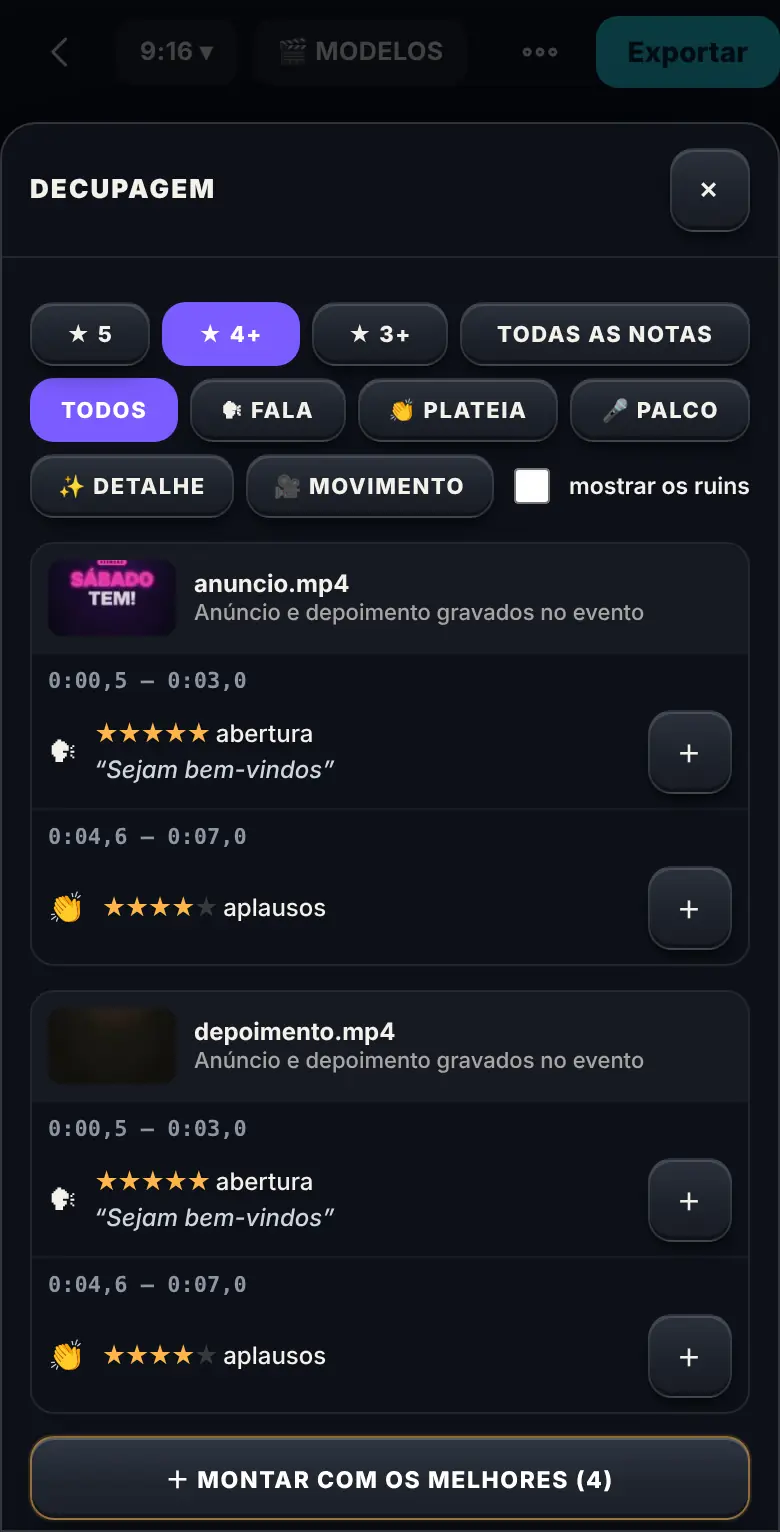
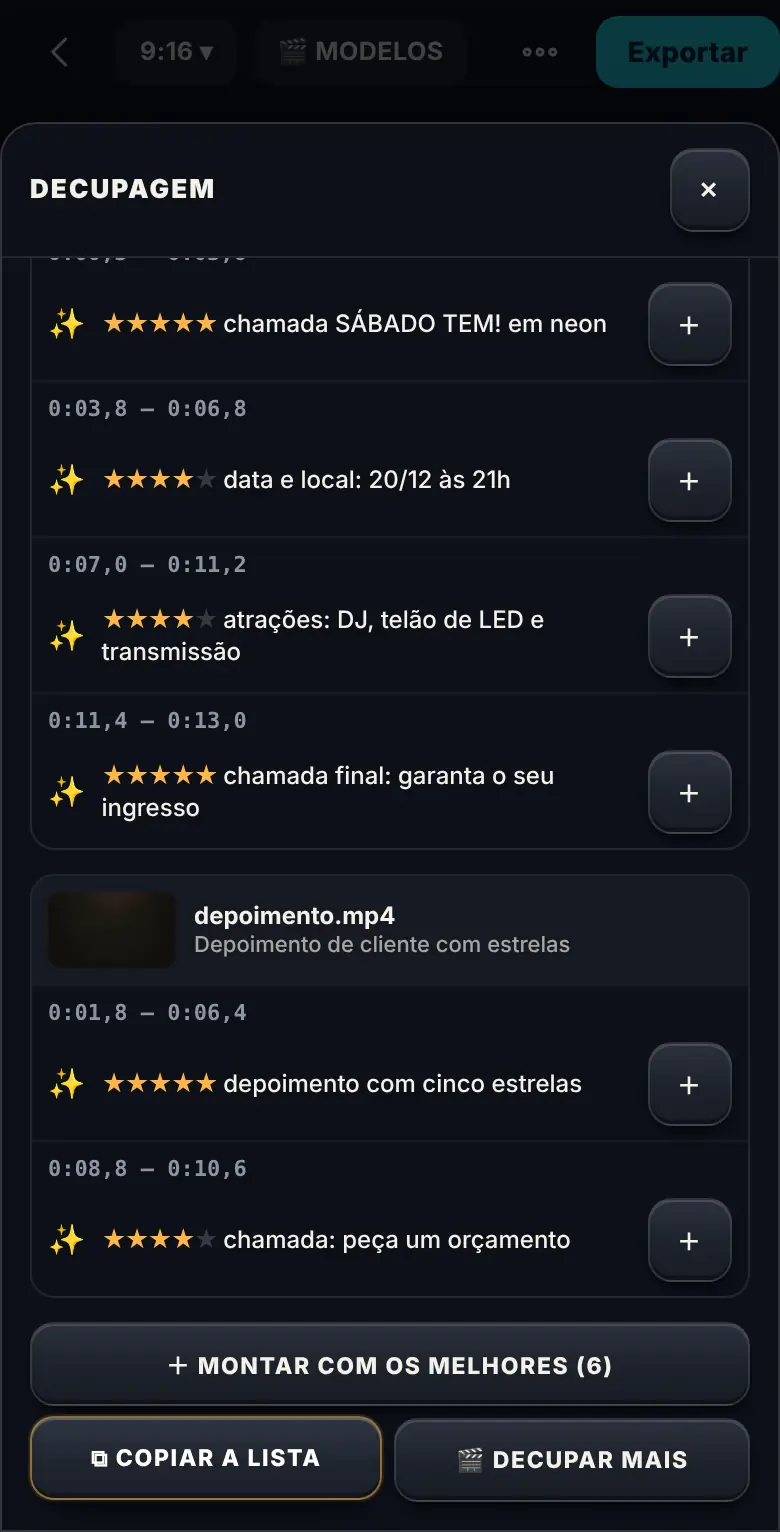
Tutoriais: exemplo mostra o resultado real (foto com IA, decupagem, assistente)
Claude-Session: https://claude.ai/code/session_01V74hghJf7XZyDoywCHQLat

diff --git a/assets/tutoriais/quadros.js b/assets/tutoriais/quadros.js
@@ -1,1 +1,1 @@
-window.BW_TUT_QUADROS = {"instalar-app":{"0":[{"img":"instalar-app-0-0.webp","acao":"toque","r":[342,742,23,16]},{"img":"instalar-app-0-1.webp","acao":"rolar"},{"img":"instalar-app-0-2.webp","acao":"toque","r":[163,377,89,12]},{"img":"instalar-app-0-3.webp","acao":"fim"}],"1":[{"img":"instalar-app-1-0.webp","acao":"rolar"},{"img":"instalar-app-1-1.webp","acao":"toque","r":[45,356,300,54]},{"img":"instalar-app-1-2.webp","acao":"fim"}]},"tela-inicial":{"0":[{"img":"tela-inicial-0-0.webp","acao":"toque","r":[63,228,118,102]},{"img":"tela-inicial-0-1.webp","acao":"fim"}],"1":[{"img":"tela-inicial-1-0.webp","acao":"digita","r":[25,562,340,80],"texto":"gastei 50 no almoço"},{"img":"tela-inicial-1-1.webp","acao":"fim"}],"2":[{"img":"tela-inicial-2-0.webp","acao":"toque","r":[342,742,23,16]},{"img":"tela-inicial-2-1.webp","acao":"rolar"},{"img":"tela-inicial-2-2.webp","acao":"toque","r":[149,377,118,12]},{"img":"tela-inicial-2-3.webp","acao":"fim"}]},"limites-ias":{"0":[{"img":"limites-ias-0-0.webp","acao":"toque","r":[342,742,23,16]},{"img":"limites-ias-0-1.webp","acao":"rolar"},{"img":"limites-ias-0-2.webp","acao":"toque","r":[149,377,118,12]},{"img":"limites-ias-0-3.webp","acao":"fim"}],"1":[{"img":"limites-ias-1-0.webp","acao":"rolar"},{"img":"limites-ias-1-1.webp","acao":"toque","r":[66,120,258,44]},{"img":"limites-ias-1-2.webp","acao":"fim"}],"2":[{"img":"limites-ias-2-0.webp","acao":"rolar"},{"img":"limites-ias-2-1.webp","acao":"toque","r":[66,356,258,54]},{"img":"limites-ias-2-2.webp","acao":"fim"}]},"conectar-cloudflare":{"0":[{"img":"conectar-cloudflare-0-0.webp","acao":"rolar"},{"img":"conectar-cloudflare-0-1.webp","acao":"toque","r":[66,361,258,44]},{"img":"conectar-cloudflare-0-2.webp","acao":"fim"}],"5":[{"img":"conectar-cloudflare-5-0.webp","acao":"rolar"},{"img":"conectar-cloudflare-5-1.webp","acao":"toque","r":[225,360,99,46]},{"img":"conectar-cloudflare-5-2.webp","acao":"fim"}]},"conectar-gemini":{"0":[{"img":"conectar-gemini-0-0.webp","acao":"rolar"},{"img":"conectar-gemini-0-1.webp","acao":"toque","r":[66,361,258,44]},{"img":"conectar-gemini-0-2.webp","acao":"fim"}],"4":[{"img":"conectar-gemini-4-0.webp","acao":"rolar"},{"img":"conectar-gemini-4-1.webp","acao":"toque","r":[225,360,99,46]},{"img":"conectar-gemini-4-2.webp","acao":"fim"}]},"decupar":{"0":[{"img":"decupar-0-0.webp","acao":"toque","r":[20,735,29,13]},{"img":"decupar-0-1.webp","acao":"toque","r":[14,347,149,42]},{"img":"decupar-0-2.webp","acao":"fim"}],"1":[{"img":"decupar-1-0.webp","acao":"toque","r":[187,600,189,42]},{"img":"decupar-1-1.webp","acao":"digita","r":[15,459,360,40],"texto":"convenção de vendas"},{"img":"decupar-1-2.webp","acao":"toque","r":[15,709,192,42]},{"img":"decupar-1-3.webp","acao":"fim"}],"2":[{"img":"decupar-2-0.webp","acao":"rolar"},{"img":"decupar-2-1.webp","acao":"fim"}],"3":[{"img":"decupar-3-0.webp","acao":"toque","r":[15,718,360,42]},{"img":"decupar-3-1.webp","acao":"fim"}]},"exportar-redes":{"0":[{"img":"exportar-redes-0-0.webp","acao":"toque","r":[14,600,167,42]},{"img":"exportar-redes-0-1.webp","acao":"fim"}],"1":[{"img":"exportar-redes-1-0.webp","acao":"rolar"},{"img":"exportar-redes-1-1.webp","acao":"toque","r":[324,728,76,25]},{"img":"exportar-redes-1-2.webp","acao":"fim"}],"2":[{"img":"exportar-redes-2-0.webp","acao":"toque","r":[298,8,92,36]},{"img":"exportar-redes-2-1.webp","acao":"toque","r":[199,396,176,86]},{"img":"exportar-redes-2-2.webp","acao":"rolar"},{"img":"exportar-redes-2-3.webp","acao":"toque","r":[15,709,144,42]},{"img":"exportar-redes-2-4.webp","acao":"fim"}]},"foto-ia":{"0":[{"img":"foto-ia-0-0.webp","acao":"toque","r":[45,144,300,254]},{"img":"foto-ia-0-1.webp","acao":"fim"}],"1":[{"img":"foto-ia-1-0.webp","acao":"rolar"},{"img":"foto-ia-1-1.webp","acao":"toque","r":[328,709,62,51]},{"img":"foto-ia-1-2.webp","acao":"fim"}],"2":[{"img":"foto-ia-2-0.webp","acao":"digita","r":[12,557,366,58],"texto":"cabelo cacheado ruivo"},{"img":"foto-ia-2-1.webp","acao":"rolar"},{"img":"foto-ia-2-2.webp","acao":"toque","r":[12,570,166,32]},{"img":"foto-ia-2-3.webp","acao":"fim"}]},"convite-animado":{"0":[{"img":"convite-animado-0-0.webp","acao":"toque","r":[51,512,139,86]},{"img":"convite-animado-0-1.webp","acao":"fim"}],"1":[{"img":"convite-animado-1-0.webp","acao":"rolar"},{"img":"convite-animado-1-1.webp","acao":"toque","r":[51,221,116,240]},{"img":"convite-animado-1-2.webp","acao":"fim"}],"2":[{"img":"convite-animado-2-0.webp","acao":"rolar"},{"img":"convite-animado-2-1.webp","acao":"toque","r":[51,323,108,36]},{"img":"convite-animado-2-2.webp","acao":"rolar"},{"img":"convite-animado-2-3.webp","acao":"toque","r":[51,297,66,87]},{"img":"convite-animado-2-4.webp","acao":"fim"}],"3":[{"img":"convite-animado-3-0.webp","acao":"rolar"},{"img":"convite-animado-3-1.webp","acao":"toque","r":[51,318,288,44]},{"img":"convite-animado-3-2.webp","acao":"fim"}]},"lancamento":{"0":[{"img":"lancamento-0-0.webp","acao":"toque","r":[32,566,159,84]},{"img":"lancamento-0-1.webp","acao":"fim"}],"1":[{"img":"lancamento-1-0.webp","acao":"toque","r":[32,413,189,44]},{"img":"lancamento-1-1.webp","acao":"toque","r":[18,92,174,80]},{"img":"lancamento-1-2.webp","acao":"toque","r":[18,303,174,80]},{"img":"lancamento-1-3.webp","acao":"fim"}],"2":[{"img":"lancamento-2-0.webp","acao":"digita","r":[18,442,356,46],"texto":"150,00"},{"img":"lancamento-2-1.webp","acao":"digita","r":[18,588,356,46],"texto":"Almoço da equipe"},{"img":"lancamento-2-2.webp","acao":"rolar"},{"img":"lancamento-2-3.webp","acao":"toque","r":[18,697,120,44]},{"img":"lancamento-2-4.webp","acao":"rolar"},{"img":"lancamento-2-5.webp","acao":"fim"}],"3":[{"img":"lancamento-3-0.webp","acao":"rolar"},{"img":"lancamento-3-1.webp","acao":"toque","r":[242,365,88,36]},{"img":"lancamento-3-2.webp","acao":"fim"}]},"ler-conta":{"0":[{"img":"ler-conta-0-0.webp","acao":"rolar"},{"img":"ler-conta-0-1.webp","acao":"toque","r":[55,218,135,168]},{"img":"ler-conta-0-2.webp","acao":"rolar"},{"img":"ler-conta-0-3.webp","acao":"toque","r":[115,369,161,42]},{"img":"ler-conta-0-4.webp","acao":"digita","r":[75,489,240,64],"texto":"83670000001-8 89900138000-0 62026121012-9 34567890123-1"},{"img":"ler-conta-0-5.webp","acao":"toque","r":[75,569,128,42]},{"img":"ler-conta-0-6.webp","acao":"fim"}],"1":[{"img":"ler-conta-1-0.webp","acao":"rolar"},{"img":"ler-conta-1-1.webp","acao":"fim"}],"2":[{"img":"ler-conta-2-0.webp","acao":"rolar"},{"img":"ler-conta-2-1.webp","acao":"toque","r":[55,449,242,42]},{"img":"ler-conta-2-2.webp","acao":"fim"}]},"meu-assistente":{"0":[{"img":"meu-assistente-0-0.webp","acao":"toque","r":[342,742,23,16]},{"img":"meu-assistente-0-1.webp","acao":"rolar"},{"img":"meu-assistente-0-2.webp","acao":"toque","r":[149,377,118,12]},{"img":"meu-assistente-0-3.webp","acao":"rolar"},{"img":"meu-assistente-0-4.webp","acao":"toque"},{"img":"meu-assistente-0-5.webp","acao":"fim"}],"1":[{"img":"meu-assistente-1-0.webp","acao":"digita","r":[51,502,288,48],"texto":"Zé"},{"img":"meu-assistente-1-1.webp","acao":"fim"}],"2":[{"img":"meu-assistente-2-0.webp","acao":"rolar"},{"img":"meu-assistente-2-1.webp","acao":"toque","r":[51,324,139,116]},{"img":"meu-assistente-2-2.webp","acao":"toque","r":[101,504,40,40]},{"img":"meu-assistente-2-3.webp","acao":"fim"}],"3":[{"img":"meu-assistente-3-0.webp","acao":"rolar"},{"img":"meu-assistente-3-1.webp","acao":"toque","r":[183,387,109,40]},{"img":"meu-assistente-3-2.webp","acao":"toque","r":[51,618,148,46]},{"img":"meu-assistente-3-3.webp","acao":"fim"}]}};
+window.BW_TUT_QUADROS = {"instalar-app":{"0":[{"img":"instalar-app-0-0.webp","acao":"toque","r":[342,742,23,16]},{"img":"instalar-app-0-1.webp","acao":"rolar"},{"img":"instalar-app-0-2.webp","acao":"toque","r":[163,377,89,12]},{"img":"instalar-app-0-3.webp","acao":"fim"}],"1":[{"img":"instalar-app-1-0.webp","acao":"rolar"},{"img":"instalar-app-1-1.webp","acao":"toque","r":[45,356,300,54]},{"img":"instalar-app-1-2.webp","acao":"fim"}]},"tela-inicial":{"0":[{"img":"tela-inicial-0-0.webp","acao":"toque","r":[63,229,118,102]},{"img":"tela-inicial-0-1.webp","acao":"fim"}],"1":[{"img":"tela-inicial-1-0.webp","acao":"digita","r":[25,562,340,80],"texto":"gastei 50 no almoço"},{"img":"tela-inicial-1-1.webp","acao":"toque","r":[327,600,38,38]},{"img":"tela-inicial-1-2.webp","acao":"fim"}],"2":[{"img":"tela-inicial-2-0.webp","acao":"toque","r":[342,742,23,16]},{"img":"tela-inicial-2-1.webp","acao":"rolar"},{"img":"tela-inicial-2-2.webp","acao":"toque","r":[149,377,118,12]},{"img":"tela-inicial-2-3.webp","acao":"fim"}]},"limites-ias":{"0":[{"img":"limites-ias-0-0.webp","acao":"toque","r":[342,742,23,16]},{"img":"limites-ias-0-1.webp","acao":"rolar"},{"img":"limites-ias-0-2.webp","acao":"toque","r":[149,377,118,12]},{"img":"limites-ias-0-3.webp","acao":"fim"}],"1":[{"img":"limites-ias-1-0.webp","acao":"rolar"},{"img":"limites-ias-1-1.webp","acao":"toque","r":[66,120,258,44]},{"img":"limites-ias-1-2.webp","acao":"fim"}],"2":[{"img":"limites-ias-2-0.webp","acao":"rolar"},{"img":"limites-ias-2-1.webp","acao":"toque","r":[66,356,258,54]},{"img":"limites-ias-2-2.webp","acao":"fim"}]},"conectar-cloudflare":{"0":[{"img":"conectar-cloudflare-0-0.webp","acao":"rolar"},{"img":"conectar-cloudflare-0-1.webp","acao":"toque","r":[66,361,258,44]},{"img":"conectar-cloudflare-0-2.webp","acao":"fim"}],"5":[{"img":"conectar-cloudflare-5-0.webp","acao":"rolar"},{"img":"conectar-cloudflare-5-1.webp","acao":"toque","r":[225,360,99,46]},{"img":"conectar-cloudflare-5-2.webp","acao":"fim"}]},"conectar-gemini":{"0":[{"img":"conectar-gemini-0-0.webp","acao":"rolar"},{"img":"conectar-gemini-0-1.webp","acao":"toque","r":[66,361,258,44]},{"img":"conectar-gemini-0-2.webp","acao":"fim"}],"4":[{"img":"conectar-gemini-4-0.webp","acao":"rolar"},{"img":"conectar-gemini-4-1.webp","acao":"toque","r":[225,360,99,46]},{"img":"conectar-gemini-4-2.webp","acao":"fim"}]},"decupar":{"0":[{"img":"decupar-0-0.webp","acao":"toque","r":[20,735,29,13]},{"img":"decupar-0-1.webp","acao":"toque","r":[14,347,149,42]},{"img":"decupar-0-2.webp","acao":"fim"}],"1":[{"img":"decupar-1-0.webp","acao":"toque","r":[187,600,189,42]},{"img":"decupar-1-1.webp","acao":"digita","r":[15,459,360,40],"texto":"convenção de vendas"},{"img":"decupar-1-2.webp","acao":"toque","r":[15,709,192,42]},{"img":"decupar-1-3.webp","acao":"fim"}],"2":[{"img":"decupar-2-0.webp","acao":"rolar"},{"img":"decupar-2-1.webp","acao":"fim"}],"3":[{"img":"decupar-3-0.webp","acao":"toque","r":[15,661,360,42]},{"img":"decupar-3-1.webp","acao":"fim"}]},"exportar-redes":{"0":[{"img":"exportar-redes-0-0.webp","acao":"toque","r":[14,600,167,42]},{"img":"exportar-redes-0-1.webp","acao":"fim"}],"1":[{"img":"exportar-redes-1-0.webp","acao":"rolar"},{"img":"exportar-redes-1-1.webp","acao":"toque","r":[324,728,76,25]},{"img":"exportar-redes-1-2.webp","acao":"fim"}],"2":[{"img":"exportar-redes-2-0.webp","acao":"toque","r":[298,8,92,36]},{"img":"exportar-redes-2-1.webp","acao":"toque","r":[199,396,176,86]},{"img":"exportar-redes-2-2.webp","acao":"rolar"},{"img":"exportar-redes-2-3.webp","acao":"toque","r":[15,709,144,42]},{"img":"exportar-redes-2-4.webp","acao":"fim"}]},"foto-ia":{"0":[{"img":"foto-ia-0-0.webp","acao":"toque","r":[45,144,300,254]},{"img":"foto-ia-0-1.webp","acao":"fim"}],"1":[{"img":"foto-ia-1-0.webp","acao":"rolar"},{"img":"foto-ia-1-1.webp","acao":"toque","r":[328,709,62,51]},{"img":"foto-ia-1-2.webp","acao":"fim"}],"2":[{"img":"foto-ia-2-0.webp","acao":"digita","r":[12,557,366,58],"texto":"cabelo cacheado ruivo"},{"img":"foto-ia-2-1.webp","acao":"rolar"},{"img":"foto-ia-2-2.webp","acao":"toque","r":[12,570,166,32]},{"img":"foto-ia-2-3.webp","acao":"fim"}],"3":[{"img":"foto-ia-3-0.webp","acao":"toque","r":[10,421,46,46]},{"img":"foto-ia-3-1.webp","acao":"toque","r":[62,421,46,46]},{"img":"foto-ia-3-2.webp","acao":"toque","r":[292,60,88,40]},{"img":"foto-ia-3-3.webp","acao":"fim"}]},"convite-animado":{"0":[{"img":"convite-animado-0-0.webp","acao":"toque","r":[51,512,139,86]},{"img":"convite-animado-0-1.webp","acao":"fim"}],"1":[{"img":"convite-animado-1-0.webp","acao":"rolar"},{"img":"convite-animado-1-1.webp","acao":"toque","r":[51,221,116,240]},{"img":"convite-animado-1-2.webp","acao":"fim"}],"2":[{"img":"convite-animado-2-0.webp","acao":"rolar"},{"img":"convite-animado-2-1.webp","acao":"toque","r":[51,323,108,36]},{"img":"convite-animado-2-2.webp","acao":"rolar"},{"img":"convite-animado-2-3.webp","acao":"toque","r":[51,297,66,87]},{"img":"convite-animado-2-4.webp","acao":"fim"}],"3":[{"img":"convite-animado-3-0.webp","acao":"rolar"},{"img":"convite-animado-3-1.webp","acao":"toque","r":[51,318,288,44]},{"img":"convite-animado-3-2.webp","acao":"fim"}]},"lancamento":{"0":[{"img":"lancamento-0-0.webp","acao":"toque","r":[32,566,159,84]},{"img":"lancamento-0-1.webp","acao":"fim"}],"1":[{"img":"lancamento-1-0.webp","acao":"toque","r":[32,413,189,44]},{"img":"lancamento-1-1.webp","acao":"toque","r":[18,92,174,80]},{"img":"lancamento-1-2.webp","acao":"toque","r":[18,303,174,80]},{"img":"lancamento-1-3.webp","acao":"fim"}],"2":[{"img":"lancamento-2-0.webp","acao":"digita","r":[18,442,356,46],"texto":"150,00"},{"img":"lancamento-2-1.webp","acao":"digita","r":[18,588,356,46],"texto":"Almoço da equipe"},{"img":"lancamento-2-2.webp","acao":"rolar"},{"img":"lancamento-2-3.webp","acao":"toque","r":[18,697,120,44]},{"img":"lancamento-2-4.webp","acao":"rolar"},{"img":"lancamento-2-5.webp","acao":"fim"}],"3":[{"img":"lancamento-3-0.webp","acao":"rolar"},{"img":"lancamento-3-1.webp","acao":"toque","r":[242,365,88,36]},{"img":"lancamento-3-2.webp","acao":"fim"}]},"ler-conta":{"0":[{"img":"ler-conta-0-0.webp","acao":"rolar"},{"img":"ler-conta-0-1.webp","acao":"toque","r":[55,218,135,168]},{"img":"ler-conta-0-2.webp","acao":"rolar"},{"img":"ler-conta-0-3.webp","acao":"toque","r":[115,369,161,42]},{"img":"ler-conta-0-4.webp","acao":"digita","r":[75,489,240,64],"texto":"83670000001-8 89900138000-0 62026121012-9 34567890123-1"},{"img":"ler-conta-0-5.webp","acao":"toque","r":[75,569,128,42]},{"img":"ler-conta-0-6.webp","acao":"fim"}],"1":[{"img":"ler-conta-1-0.webp","acao":"rolar"},{"img":"ler-conta-1-1.webp","acao":"fim"}],"2":[{"img":"ler-conta-2-0.webp","acao":"rolar"},{"img":"ler-conta-2-1.webp","acao":"toque","r":[55,449,242,42]},{"img":"ler-conta-2-2.webp","acao":"fim"}]},"meu-assistente":{"0":[{"img":"meu-assistente-0-0.webp","acao":"toque","r":[342,742,23,16]},{"img":"meu-assistente-0-1.webp","acao":"rolar"},{"img":"meu-assistente-0-2.webp","acao":"toque","r":[149,377,118,12]},{"img":"meu-assistente-0-3.webp","acao":"rolar"},{"img":"meu-assistente-0-4.webp","acao":"toque"},{"img":"meu-assistente-0-5.webp","acao":"fim"}],"1":[{"img":"meu-assistente-1-0.webp","acao":"digita","r":[51,502,288,48],"texto":"Zé"},{"img":"meu-assistente-1-1.webp","acao":"fim"}],"2":[{"img":"meu-assistente-2-0.webp","acao":"rolar"},{"img":"meu-assistente-2-1.webp","acao":"toque","r":[51,324,139,116]},{"img":"meu-assistente-2-2.webp","acao":"toque","r":[101,504,40,40]},{"img":"meu-assistente-2-3.webp","acao":"fim"}],"3":[{"img":"meu-assistente-3-0.webp","acao":"rolar"},{"img":"meu-assistente-3-1.webp","acao":"toque","r":[183,387,109,40]},{"img":"meu-assistente-3-2.webp","acao":"toque","r":[51,618,148,46]},{"img":"meu-assistente-3-3.webp","acao":"fim"}]}};

diff --git a/assets/tutoriais.js b/assets/tutoriais.js
@@ -39,7 +39,7 @@
       link: ["./", "IR PARA O INÍCIO"],
       passos: [
         { t: "Toque numa tela para entrar", d: "Em volta do robô ficam MEU NEGÓCIO, GESTÃO DE CASA, MARKETING e FERRAMENTAS. Passe o dedo para o lado para girar e toque numa delas para entrar." },
-        { t: "Peça pela caixa do assistente", d: "Embaixo do robô fica a caixa de pedido: escreva ou fale e toque na seta. O assistente mostra o cartão antes de lançar qualquer coisa." },
+        { t: "Peça pela caixa do assistente", d: "Embaixo do robô fica a caixa de pedido: escreva ou fale e toque na seta. No exemplo, gastei 50 no almoço vira um cartão de gasto da casa, com o valor e a data: o assistente sempre mostra o cartão e só lança quando você toca em LANÇAR." },
         { t: "Menu e configurações", d: "Toque em MAIS, arraste o menu e entre em CONFIGURAÇÕES: os seus dados, a aparência e as suas IAs." }
       ] },
     { id: "meu-assistente", cat: "comecar", ic: "🧑💻", titulo: "Deixar o assistente do seu jeito", ensina: "deixar o assistente do seu jeito", min: 2, nivel: "Fácil",
@@ -111,7 +111,7 @@
       passos: [
         { t: "Importe os takes", d: "No Editor de vídeo, toque em Mídia, na faixa de baixo, e depois em IMPORTAR. Escolha os vídeos do evento." },
         { t: "Toque em DECUPAR COM IA", d: "Na mesma folha, toque em DECUPAR COM IA. Os takes já vêm marcados: diga que evento é, se quiser, e toque em DECUPAR. Confirme o aviso: só uma cópia leve vai para a IA." },
-        { t: "Leia a lista", d: "Cada trecho vem com o tempo, a nota de uma a cinco estrelas, o tipo e a fala. Os filtros no alto mostram só as melhores notas ou um tipo." },
+        { t: "Leia a lista", d: "Cada trecho vem com o tempo, a nota de uma a cinco estrelas, o que aparece nele e a fala, quando alguém fala. Os filtros no alto mostram só as melhores notas ou um tipo." },
         { t: "Monte o vídeo", d: "O botão de mais põe um trecho já aparado na linha do tempo. MONTAR COM OS MELHORES enfileira todos, sem os ruins." }
       ] },
     { id: "exportar-redes", cat: "video", ic: "📤", titulo: "Editar leve e exportar para as redes", ensina: "editar sem travar e exportar o vídeo certinho para cada rede", min: 3, nivel: "Médio",
@@ -127,9 +127,10 @@
       resumo: "Peça uma mudança na foto (cabelo, roupa, fundo) e receba uma versão nova ao lado.",
       link: ["fotos.html", "ABRIR O EDITOR DE FOTOS"],
       passos: [
-        { t: "Abra a foto", d: "No Editor de fotos, toque em ESCOLHER FOTOS e escolha a foto na galeria." },
+        { t: "Abra a foto", d: "No Editor de fotos, toque em ESCOLHER FOTOS e escolha a foto na galeria. No exemplo, uma moça de cabelo liso castanho." },
         { t: "Aba IA", d: "Na faixa de baixo, arraste até IA e toque." },
-        { t: "Escreva e crie", d: "Escreva o que quer mudar, ou toque numa sugestão, e toque em CRIAR NOVA VERSÃO. Confirme: vai só uma cópia pequena. A versão nova aparece ao lado da original; depois é só tocar em SALVAR." }
+        { t: "Escreva e crie", d: "Escreva o que quer mudar, como cabelo cacheado ruivo, ou toque numa sugestão, e toque em CRIAR NOVA VERSÃO. Confirme: vai só uma cópia pequena. Em poucos segundos aparece a versão nova, com o cabelo cacheado ruivo, e a original continua guardada ao lado." },
+        { t: "Compare e salve", d: "Nas miniaturas, toque na primeira para ver a original e na segunda para ver a versão nova. Gostou? Toque em SALVAR." }
       ] },
     { id: "convite-animado", cat: "fotos", ic: "💌", titulo: "Convite animado em vídeo", ensina: "fazer um convite animado em vídeo", min: 3, nivel: "Fácil",
       resumo: "Escolha um modelo da biblioteca, ligue a animação e baixe o MP4.",

diff --git a/tutoriais.html b/tutoriais.html
@@ -139,8 +139,8 @@
 <script src="https://cdn.jsdelivr.net/npm/@supabase/supabase-js@2.119.2/dist/umd/supabase.js" integrity="sha384-A97u3Qnt9GZHURO9YJZRe7VQgGUeFzcv6I1oIGnUTxQrCxnpQMwR0/G8F2zt9abZ" crossorigin="anonymous"></script>
 <script src="assets/bw-sync.js?v=20261122"></script>
 <script src="assets/minhas-ias.js?v=2"></script>
-<script src="assets/tutoriais/quadros.js?v=1"></script>
-<script src="assets/tutoriais.js?v=4"></script>
+<script src="assets/tutoriais/quadros.js?v=2"></script>
+<script src="assets/tutoriais.js?v=5"></script>
 <script>
 (function () {
   "use strict";

diff --git a/sw.js b/sw.js
@@ -4,7 +4,7 @@
    - fontes de dados (milhas.json): network-first, cai no cache sem rede
    - APIs externas (BCB, er-api): NUNCA cacheadas — passam direto
    Versão no nome do cache: subir CACHE a cada publicação de conteúdo. */
-const CACHE = "bw-mesa-v240";
+const CACHE = "bw-mesa-v241";
 const SHELL = [
   "./",
   "./index.html",

diff --git a/docs/tutoriais/capturar.py b/docs/tutoriais/capturar.py
@@ -20,21 +20,42 @@ STUB_LOGADO = T.STUB_SB.replace("getSession:async()=>({data:{session:null}})",
     "getSession:async()=>({data:{session:{access_token:'demo',user:{id:'demo',email:'exemplo@produtoraexemplo.com',user_metadata:{full_name:'Produtora Exemplo'},app_metadata:{provider:'email'},created_at:'2026-01-10'}}}})").replace(
     "getUser:async()=>({data:{user:null}})", "getUser:async()=>({data:{user:{id:'demo',email:'exemplo@produtoraexemplo.com'}}})")
 
+# REGRA (dono, 25/11): o exemplo de cada tutorial mostra o RESULTADO REAL do que o passo pede.
+# foto-ia: pessoa INVENTADA criada pela IA da plataforma (modo pers) + o resultado REAL da bw-ia-imagem para "cabelo cacheado ruivo"
+# (gerados em 25/11 na conta ADM; docs/tutoriais/exemplos/). A captura entrega exatamente essa resposta da IA.
+EXEMPLOS = os.path.join(RAIZ, "docs", "tutoriais", "exemplos")
+FOTO_PESSOA = os.path.join(EXEMPLOS, "foto-ia-antes.webp")
 def _ia_img():
-    im = Image.open(os.path.join(RAIZ, "assets", "reels-exemplos", "depoimento.jpg")).convert("RGB"); im.thumbnail((504, 504))
-    r_, g_, b_ = im.split(); im = Image.merge("RGB", (r_.point(lambda v: min(255, int(v * 1.25))), g_, b_.point(lambda v: int(v * .8))))
-    bio = io.BytesIO(); im.save(bio, "JPEG", quality=80); import base64; return base64.b64encode(bio.getvalue()).decode()
-DECUP = {"resumo": "Anúncio e depoimento gravados no evento", "modelo": "exemplo", "trechos": [
-    {"ini": 0.5, "fim": 3, "tipo": "fala", "nota": 5, "desc": "abertura", "fala": "Sejam bem-vindos"},
-    {"ini": 3.2, "fim": 4.4, "tipo": "ruim", "nota": 1, "desc": "câmera tremida", "fala": ""},
-    {"ini": 4.6, "fim": 7, "tipo": "plateia", "nota": 4, "desc": "aplausos", "fala": ""},
-    {"ini": 7.2, "fim": 9, "tipo": "detalhe", "nota": 3, "desc": "logo no telão", "fala": ""}]}
+    im = Image.open(os.path.join(EXEMPLOS, "foto-ia-depois.webp")).convert("RGB")
+    bio = io.BytesIO(); im.save(bio, "JPEG", quality=90); import base64; return base64.b64encode(bio.getvalue()).decode()
+# decupar: o que a IA devolve para CADA take de exemplo, descrevendo o que o take mostra de verdade (anúncio 13 s, depoimento 11 s)
+DECUP_TAKE = {
+  13: {"resumo": "Anúncio animado da festa de sábado", "modelo": "exemplo", "trechos": [
+    {"ini": 0.3, "fim": 3.6, "tipo": "detalhe", "nota": 5, "desc": "chamada SÁBADO TEM! em neon", "fala": ""},
+    {"ini": 3.8, "fim": 6.8, "tipo": "detalhe", "nota": 4, "desc": "data e local: 20/12 às 21h", "fala": ""},
+    {"ini": 7.0, "fim": 11.2, "tipo": "detalhe", "nota": 4, "desc": "atrações: DJ, telão de LED e transmissão", "fala": ""},
+    {"ini": 11.4, "fim": 13.0, "tipo": "detalhe", "nota": 5, "desc": "chamada final: garanta o seu ingresso", "fala": ""}]},
+  11: {"resumo": "Depoimento de cliente com estrelas", "modelo": "exemplo", "trechos": [
+    {"ini": 0.0, "fim": 1.6, "tipo": "ruim", "nota": 1, "desc": "estrelas ainda entrando, tela quase vazia", "fala": ""},
+    {"ini": 1.8, "fim": 6.4, "tipo": "detalhe", "nota": 5, "desc": "depoimento com cinco estrelas", "fala": ""},
+    {"ini": 6.6, "fim": 8.6, "tipo": "detalhe", "nota": 3, "desc": "nome e cargo do cliente", "fala": ""},
+    {"ini": 8.8, "fim": 10.6, "tipo": "detalhe", "nota": 4, "desc": "chamada: peça um orçamento", "fala": ""}]}}
+def _decup(u):
+    import re as _re
+    m = _re.search(r"dur=(\d+)", u); d = int(m.group(1)) if m else 13
+    return DECUP_TAKE.get(d) or DECUP_TAKE[min(DECUP_TAKE, key=lambda k: abs(k - d))]
 def rota(r):
     u = r.request.url
     cab = {"Access-Control-Allow-Origin": "*", "Access-Control-Allow-Headers": "*"}
     if "functions/v1/" in u and b'"testar"' in (r.request.post_data_buffer or b""):   # conferência da chave colada (simulada: conecta)
         return r.fulfill(status=200, body=json.dumps({"ok": True, "conta": "0123456789abcdef0123456789abcdef"}), content_type="application/json", headers=cab)
-    if "functions/v1/bw-ia-video" in u: return r.fulfill(status=200, body=json.dumps(DECUP), content_type="application/json", headers=cab)
+    if "functions/v1/bw-ia-video" in u: return r.fulfill(status=200, body=json.dumps(_decup(u)), content_type="application/json", headers=cab)
+    if "functions/v1/" in u and b'"ping"' in (r.request.post_data_buffer or b""):   # a IA está ligada (senão a tela diz "sendo ativada")
+        return r.fulfill(status=200, body=json.dumps({"pronto": True}), content_type="application/json", headers=cab)
+    if "functions/v1/bw-ia?" in u or u.endswith("functions/v1/bw-ia"):   # IA de texto do assistente (resposta no formato real)
+        import datetime as _dt
+        ac = {"acoes": [{"tipo": "gasto_casa", "descricao": "Almoço", "valor": 50, "data": _dt.date.today().isoformat(), "categoria": "Alimentação"}], "resposta": "Anotei o almoço de 50 reais."}
+        return r.fulfill(status=200, body=json.dumps({"texto": json.dumps(ac, ensure_ascii=False), "modelo": "openai/gpt-oss-20b", "nivel": "rapido"}), content_type="application/json", headers=cab)
     if "functions/v1/bw-ia-imagem" in u: return r.fulfill(status=200, body=json.dumps({"imagem": _ia_img()}), content_type="application/json", headers=cab)
     if "supabase-js" in u: return r.fulfill(body=STUB_LOGADO, content_type="application/javascript")
     return T.rota(r)
@@ -70,7 +91,7 @@ ROTEIROS = {
   },
   "tela-inicial": {
     0: [("abrir", "index.html"), ("toque", ".hub-tela >> nth=2")],
-    1: [("abrir", "index.html"), ("digita", "#bpTexto", "gastei 50 no almoço")],
+    1: [("abrir", "index.html"), ("digita", "#bpTexto", "gastei 50 no almoço"), ("toque", "#bpEnviar"), ("espera", 2500)],
     2: CONFIG,
   },
   "meu-assistente": {
@@ -99,9 +120,9 @@ ROTEIROS = {
     1: VIDEO_COM_TAKES + [("rolar", "#veDecupBt"), ("toque", "#veDecupBt"), ("esperasel", "#veJanDecup"), ("digita", "#veDcCtx", "convenção de vendas"),
                           ("toque", "#veDcIr"), ("esperasel", "#veJanDecupVer")],
     2: VIDEO_COM_TAKES + [("clique", "#veDecupBt"), ("esperasel", "#veJanDecup"), ("clique", "#veDcIr"), ("esperasel", "#veJanDecupVer"),
-                          ("rolar", "#veJanDecupVer [data-por] >> nth=3")],
+                          ("rolar", "#veJanDecupVer [data-por] >> nth=5")],
     3: VIDEO_COM_TAKES + [("clique", "#veDecupBt"), ("esperasel", "#veJanDecup"), ("clique", "#veDcIr"), ("esperasel", "#veJanDecupVer"),
-                          ("toque", "#veDcMontar"), ("clique", "#vaSheetOk"), ("espera", 800), TOPO],
+                          ("toque", "#veDcMontar"), ("clique", "#vaSheetOk"), ("espera", 800), TOPO, ("tecla", "Home"), ("tecla", "Shift+ArrowRight"), ("espera", 800)],
   },
   "exportar-redes": {
     0: VIDEO_COM_TAKES + [("rolar", "#veProxyBt"), ("toque", "#veProxyBt")],
@@ -109,10 +130,14 @@ ROTEIROS = {
     2: VIDEO_NA_LINHA + [("toque", "#vaExportar"), ("esperasel", '[data-pronto="insta"]'), ("toque", '[data-pronto="insta"]'), ("rolar", "#veExIr"), ("toque", "#veExIr"), ("espera", 2500)],
   },
   "foto-ia": {
-    0: [("abrir", "fotos.html"), ("toque", "#solta"), ("arquivo", "#arquivos", [FOTO]), ("espera", 1500)],
-    1: [("abrir", "fotos.html"), ("arquivo", "#arquivos", [FOTO]), ("espera", 1500), ("rolar", ".ed-abas >> text=IA"), ("toque", ".ed-abas >> text=IA")],
-    2: [("abrir", "fotos.html"), ("arquivo", "#arquivos", [FOTO]), ("espera", 1500), ("clique", ".ed-abas >> text=IA"), ("espera", 600),
-        ("digita", 'textarea[data-k="iaPedido"]', "cabelo cacheado ruivo"), ("rolar", '[data-k="iaCriar"]'), ("toque", '[data-k="iaCriar"]'), ("espera", 1500)],
+    0: [("abrir", "fotos.html"), ("toque", "#solta"), ("arquivo", "#arquivos", [FOTO_PESSOA]), ("espera", 1500)],
+    1: [("abrir", "fotos.html"), ("arquivo", "#arquivos", [FOTO_PESSOA]), ("espera", 1500), ("rolar", ".ed-abas >> text=IA"), ("toque", ".ed-abas >> text=IA")],
+    2: [("abrir", "fotos.html"), ("arquivo", "#arquivos", [FOTO_PESSOA]), ("espera", 1500), ("clique", ".ed-abas >> text=IA"), ("espera", 600),
+        ("digita", 'textarea[data-k="iaPedido"]', "cabelo cacheado ruivo"), ("rolar", '[data-k="iaCriar"]'), ("toque", '[data-k="iaCriar"]'), ("espera", 2000), TOPO],
+    3: [("abrir", "fotos.html"), ("arquivo", "#arquivos", [FOTO_PESSOA]), ("espera", 1500), ("clique", ".ed-abas >> text=IA"), ("espera", 600),
+        ("js", "var t=document.querySelector('textarea[data-k=iaPedido]');t.value='cabelo cacheado ruivo';t.dispatchEvent(new Event('input',{bubbles:true}))"),
+        ("clique", '[data-k="iaCriar"]'), ("espera", 2000), TOPO,
+        ("toque", '#edFotos button[data-i="0"]'), ("espera", 600), ("toque", '#edFotos button[data-i="1"]'), ("espera", 600), ("toque", "#edSalvar")],
   },
   "convite-animado": {
     0: [("abrir", "criador.html"), ("toque", ".cr-tipo >> text=CONVITE")],

diff --git a/AGENTS.md b/AGENTS.md
@@ -1046,6 +1046,13 @@ os outros são conferidos no navegador, logado, em 1280 px E 390 px.
      (o nome que a pessoa deu em MEU ASSISTENTE). Preferência do assistente (nome, visual, cor, voz) é do APARELHO (ui_assistente), nunca da
      conta. Ferramenta ASSISTENTE DE TEXTO continua com o nome completo para não confundir (auto: vigia 7.8n).
 
+236. TUTORIAL MOSTRA O EFEITO REAL (dono, 25/11: "o exemplo fala de mudar cabelo e a imagem não tem relação"): todo passo que pede um resultado
+     mostra ESSE resultado na tela — o texto do exemplo, a mídia e a resposta da IA simulada têm de bater. Foto de exemplo com pessoa INVENTADA e
+     resposta REAL da IA da plataforma para o pedido do exemplo (docs/tutoriais/exemplos/, gerada uma vez na conta ADM); resposta simulada descreve
+     o que a mídia mostra de verdade (decupagem por take, pela duração); o último quadro do passo mostra o efeito (cartão do assistente, versão nova,
+     clipe na linha do tempo com a agulha no começo). Ping das funções responde "pronto" na captura (senão aparece "IA sendo ativada"). Revisar a
+     folha de contato com o ÚLTIMO quadro de cada passo antes de publicar.
+
 **Como testar no navegador (rotina)**
 - Abrir as páginas com captura de erros (iframe sandbox + window.onerror) → 0 erros de JS.
 - Medir `scrollWidth - clientWidth` em 390 px → 0.
@@ -2755,6 +2762,10 @@ Ao fim de TODA construção ou modificação, nesta ordem (não pular etapa):
   Bug achado no caminho: botão 3 · CONECTAR de MINHAS IAS invisível no modo PRETO E BRANCO (minhas-ias.js v2). Testes: teste_tutoriais
   (0 falhas × 1280/390) + agente_leitor, pede, layout, ambientes, agente_arrastar, lancamentos, modos, testes; vigia ✅ (7.8n). Manual 75 → 76 p.
   ("Meu assistente"). App BW 1.9.50. layout.js v83, modos.js v11, bw-agente v27, tutoriais.js v4, sw v240. PENTE FINO 234–235.
+- 25/11/2026 12:20 · Claude (dono: "no tutorial de foto com IA o exemplo fala de mudar cabelo e a imagem não tem relação — regra: sempre mostre o efeito e o resultado
+  real do exemplo"): foto-ia refeito com uma pessoa inventada e o resultado REAL da IA da plataforma para "cabelo cacheado ruivo" + passo novo COMPARE E SALVE;
+  decupagem com trechos que descrevem o que cada take mostra; tela inicial mostra o cartão do assistente depois do pedido; aviso "IA sendo ativada" some da
+  captura. Revisados os 13 tutoriais pelo último quadro de cada passo. PENTE FINO 236. tutoriais.js v5, quadros.js v2, sw v241.
 ## Pendências (dono)
 - [x] (25/11 11:37) BW-Setup.exe 1.9.50 gerado pelo dono e publicado (13,2 MB, versão conferida dentro do .exe; maior pela cópia sem internet com as fotos dos tutoriais).
 - [ ] (25/11) TUTORIAIS + MEU ASSISTENTE: dono abrir um tutorial no celular (som ligado, iPhone sem o silencioso) e dizer se a narração e a música

diff --git a/docs/METODOS.md b/docs/METODOS.md
@@ -750,6 +750,11 @@ Armadilha: classe de ESTADO não serve para destacar botão. `＋ IMPORTAR` usav
 - **Revisar** sempre numa folha de contato (todas as fotos de um tutorial com o alvo em vermelho): achou 3 bugs de verdade (botão principal
   invisível no PRETO E BRANCO em MINHAS IAS; "toque de novo para entrar" não existe no celular — um toque já entra; COLAR sem permissão de
   área de transferência mostra erro).
+- **Exemplo = resultado real** (regra 236): o texto do passo, a mídia e a resposta da IA simulada contam a MESMA história. Para IA de
+  imagem: gerar uma vez, na conta ADM, a pessoa inventada (`BWFotosNuvem.editar(null, prompt, w, h, {modo:"pers"})`) e o resultado real
+  do pedido do exemplo; trazer do navegador para cá em base64 pequeno (WEBP 320×400) conferindo o SHA-256 em pedaços de 1000 letras
+  (faltou um "=" na 1ª cópia). A rota da captura devolve esse resultado; decupagem simulada por take escolhida pela duração (`?dur=`);
+  `ping` responde `{pronto:true}`. Folha final: o ÚLTIMO quadro de cada passo de todos os tutoriais lado a lado.
 - **Armadilhas**: input com selo SRI + stub = supabase não carrega (página "não logada"); `post_data` de upload binário dá UnicodeDecodeError →
   `post_data_buffer`; botão só com ícone (Voltar da faixa do editor) tem innerText vazio — usar posição/JS; clique em `<label for=file>` abre
   o seletor: `expect_file_chooser` e depois `set_input_files`.
